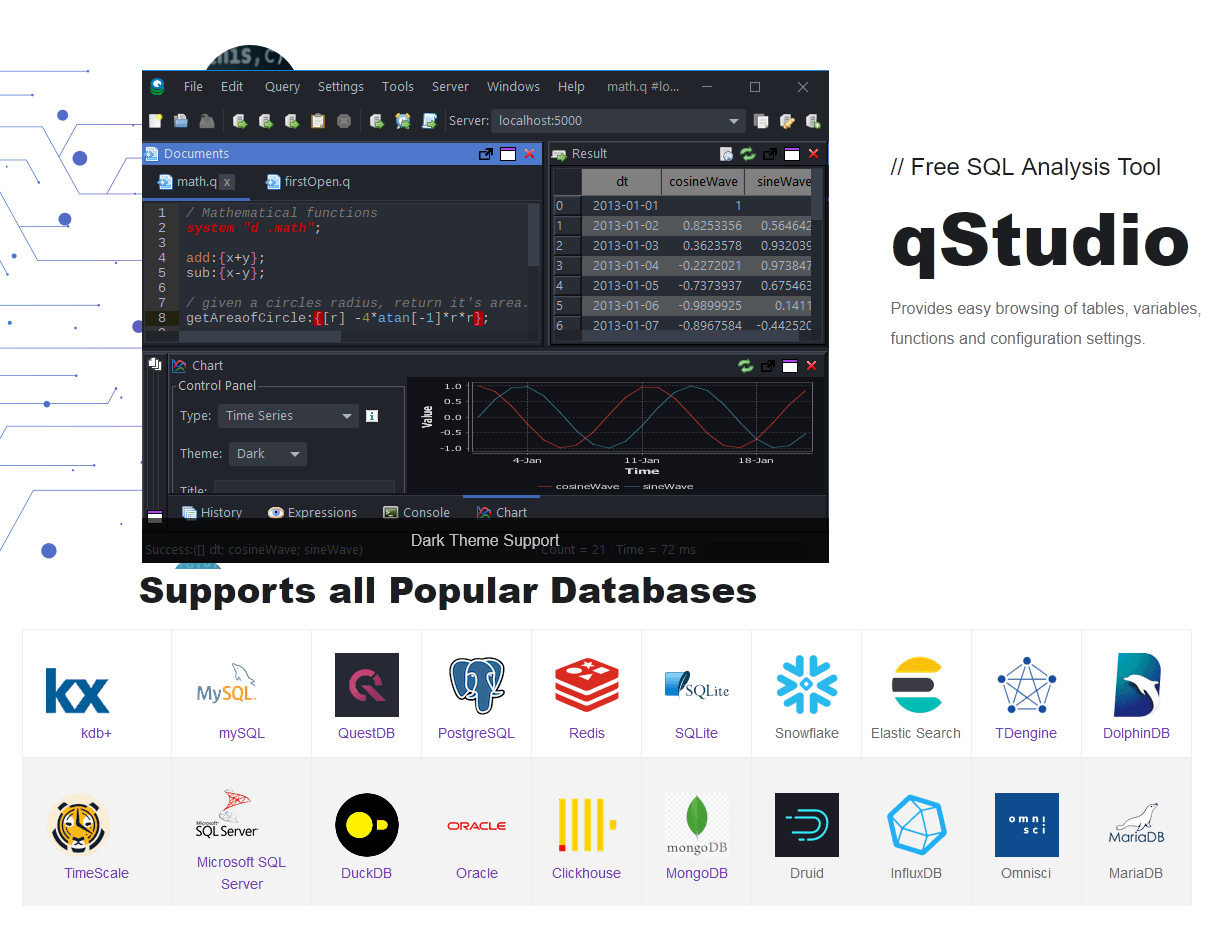
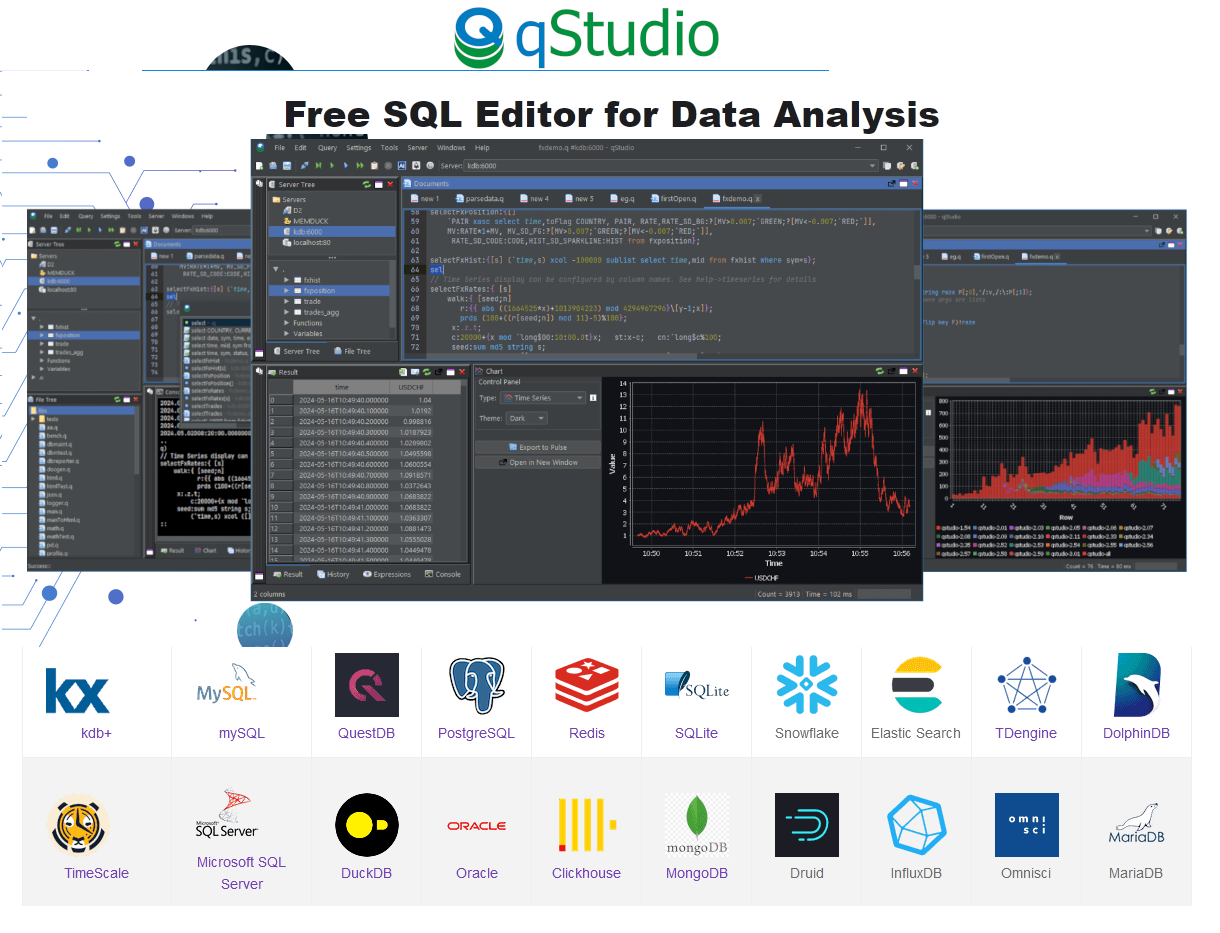
Update readme and image.

diff --git a/README.md b/README.md
@@ -29,6 +29,25 @@ Apache Solr, Apache Ignite, Omnisci, Informix, Sqream, Aurora
 
 Changelog:
 
+2023-05-28 - 3.02   - Bugfixes and UI improvements. 
+                    - Improve DolphinDB support. 
+                    - Add PRQL Compilation Support.
+
+2023-05-24 - 3.01   - AI - Generate SQL queries, ask for error help or explanations via OpenAI assistant.
+					- Pivot - Perform excel like pivots within qStudio and have it generate the query for you.
+					- BabelDB - Query any database and store it to a local duckdb instance.  
+					- SQL - support significantly improved. Documentation added, highlighting improved, added code formatter. 
+					- SQL - Added Ctrl+Q run current query support. Lower/uppercase commands.  
+					- Parquet File viewer support.
+					- Generate command line charts using sqlchart command 
+					- Default theme changed to dark mode.  
+					- UI Niceties - Added icons for charts / database types. Safer chart rendering. 
+					- UI Niceties - Document tabs now allow mouse scrolling, added file options to menu. Fixed bugs. 
+					- Remove - Legacy java licensing code.
+					- DuckDB - Improved rendering of the various SQL types.
+
+2023-04-30 - 2.59   - Add ability to export table query result to xlsx file.
+					
 2023-04-10 - 2.58   - Add highlighting support for  c, cpp, java, bat, sh, html, js, json, xml and properties files.
 
 2023-04-01 - 2.57   - Improved Scatter Chart. Scatter now supports time-series.
